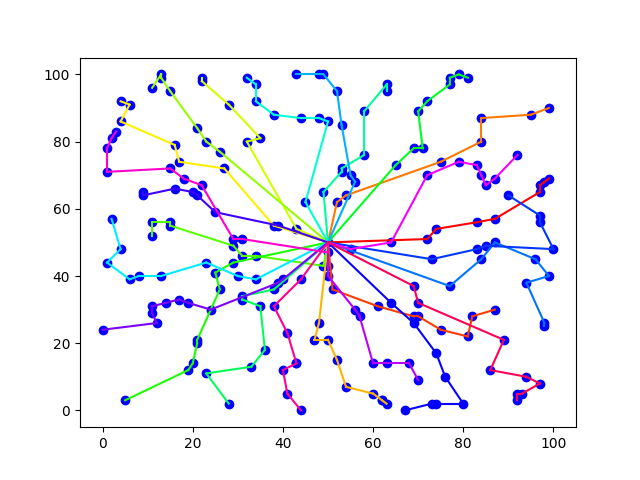
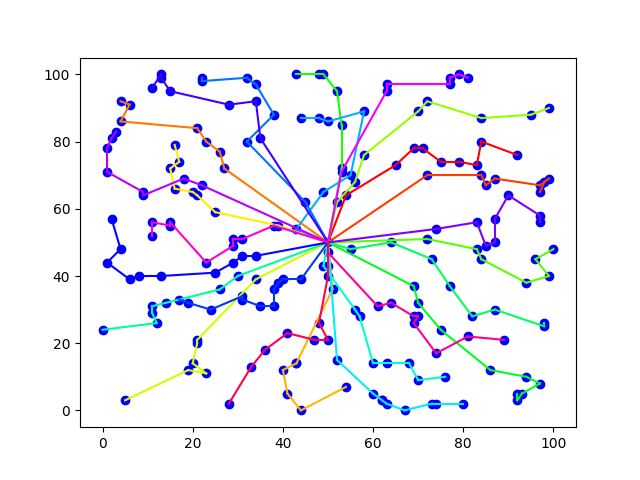
code for spy to let run

diff --git a/TabuCustom_final.py b/TabuCustom_final.py
@@ -127,8 +127,8 @@ class TabuCustom:
         self.tabuIterator = 0
 
 
-    def solveTabu(self):  # with sort variable defines if the minimum_insertions_with_opened_routes will
-        self.TabuSearch(0, True)
+    def solveTabu(self, seed):  # with sort variable defines if the minimum_insertions_with_opened_routes will
+        self.TabuSearch(seed, True)
         return self.sol
 
     def FindRouteWithMaxCost(self):  # mo
@@ -860,9 +860,9 @@ class TabuCustom:
         if nodes_serviced != len(self.customers):
             print('Number of serviced nodes problem')
 
-    def TabuSearch(self, operator, shake=False):
-        solution_cost_trajectory = []
-        random.seed(67)
+    def TabuSearch(self, seed, shake=False):
+
+        random.seed(seed)
         self.bestSolution = self.cloneSolution(self.sol)
         terminationCondition = False
 
@@ -933,7 +933,7 @@ class TabuCustom:
 
             self.addOneToIterator()
 
-            if self.tabuIterator > 5000:
+            if self.tabuIterator > 13000:
                 terminationCondition = True
                 self.write_to_file()
         # SolDrawer.draw('final_ts', self.bestSolution, self.allNodes)

diff --git a/Main.py b/Main.py
@@ -1,19 +1,25 @@
-from VRPMinimumInsertions import *
-import pprint,time
+from VRPMinimumInsertions_final import *
+import time
 
 m = Model()
 m.BuildModel()
-best = 100
-start=time.time()
-for i in range(0,1):
-    s = SolverMinIns(m, 4.5, 1)
-    sol = s.solve()
-    if sol.max_cost_of_route < best:
-        best = sol.max_cost_of_route
-        best_i = i
-
-s.ReportSolution(sol)
+start = time.time()
 
 
-end=time.time()
+for i in range(8, 32):
+    for j in range(1, 8):
+        for seed in range(101, 111):
+            s = SolverMinIns(m, i/4, j/4)
+            s.solve(seed)
+            sol = s.sol
+            print("hi")
+            f = open("final_test_file.txt", "a")
+            f.write("\n" + str(sol.max_cost_of_route) + " " + str(i) + " " +str(j) + " " + str(seed))
+
+# s.ReportSolution(sol)
+print(sol.max_cost_of_route)
+
+end = time.time()
 print((end-start)/60)
+
+f.close()

diff --git a/VRPMinimumInsertions_final.py b/VRPMinimumInsertions_final.py
@@ -35,13 +35,13 @@ class SolverMinIns:
                                                # see find_best_insertion_for_customer for the use
         self.siders_constant2 = siders_constant2
 
-    def solve(self, with_sort = False): # with sort variable defines if the minimum_insertions_with_opened_routes will
+    def solve(self, seed, with_sort=False): # with sort variable defines if the minimum_insertions_with_opened_routes will
                                         # sort the self.customers
         self.SetRoutedFlagToFalseForAllCustomers()
         self.minimum_insertions_with_opened_routes(with_sort)
         tabu = TabuCustom(self)
-        self.sol = tabu.solveTabu()
-        return self.sol
+        self.sol = tabu.solveTabu(seed)
+
 
 
 

diff --git a/TabuCustom.py b/TabuCustom.py
@@ -982,7 +982,7 @@ class TabuCustom:
             shaking_flag = 1000
 
         while terminationCondition is False:
-            operator = random.randint(0, 2)
+            operator = random.randint(0, 4)
 
             rm.Initialize()
             sm.Initialize()
@@ -1038,7 +1038,7 @@ class TabuCustom:
 
             self.addOneToIterator()
 
-            if self.tabuIterator > 5000:
+            if self.tabuIterator > 15000:
                 terminationCondition = True
                 self.write_to_file()
         SolDrawer.draw('final_ts', self.bestSolution, self.allNodes)

diff --git a/VRPMinimumInsertions.py b/VRPMinimumInsertions.py
@@ -55,7 +55,7 @@ class SolverMinIns:
 
         # self.ReportSolution(self.sol)
         # SolDrawer.draw(self.sol, self.allNodes)
-        return self.sol
+
 
     def ReportSolution(self, sol):
         for i in range(0, len(sol.routes)):
